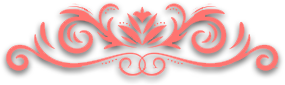
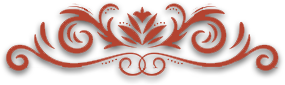
Половина перехода на новую тему

Changed region(s): [[0.0, 0.0235, 0.9825, 0.8941], [0.4491, 0.5412, 0.4772, 0.5647]]

diff --git a/App/static/js/player.js b/App/static/js/player.js
@@ -37,10 +37,27 @@ $('#close1').click(function(){
           		$(".popup").fadeIn(400)
           	}
           	else if (data.status == 'True' && data.task_type == 'FINAL') {
-              $('#popup_text').replaceWith("<p id='popup_text'>Ответ верный! Для продолжения нажмите ОК<br></p>");
           		$('.popup-block').replaceWith("<div class='popup-block'><p id='popup_text'>Ответ верный!<br>Для продолжения нажмите ОК</p><form method='GET' action='task' class='after-timer-form'><button id='close' name='next' value='True' class='button'>Ок</button></form></div> ");
 				      $(".popup").fadeIn(400)
           	}
+            else if (data.status == 'True' && data.task_type == 'PHOTO') {
+              $('.popup-block').replaceWith("<div class='popup-block'><p id='popup_text'>Ответ верный!<br>Для продолжения нажмите ОК</p><form method='GET' action='task' class='after-timer-form'><button id='close' name='submit' value='True' class='button'>Ок</button></form></div> ");
+              $(".popup").fadeIn(400)
+            }
+            else if (data.status == 'False' && data.task_type == 'PHOTO') {
+              $('#popup_text').replaceWith("<p id='popup_text'>Ответ неверный! Попробуйте снова<br></p>");
+              $('.after-timer-form').replaceWith("<button id='close' class='button'>OK<button");
+              $(".popup").fadeIn(400)
+            }
+             else if (data.status == 'True' && data.task_type == 'EXTRA') {
+              $('.popup-block').replaceWith("<div class='popup-block'><p id='popup_text'>Ответ верный!<br>" + data.tooltip + "</p><form method='GET' action='task' class='after-timer-form'><button id='close' name='submit' value='True' class='button'>Ок</button></form></div> ");
+              $(".popup").fadeIn(400)
+            }
+            else if (data.status == 'False' && data.task_type == 'EXTRA') {
+              $('#popup_text').replaceWith("<p id='popup_text'>Ответ неверный! Попробуйте снова<br></p>");
+              $('.after-timer-form').replaceWith("<button id='close' class='button'>OK<button");
+              $(".popup").fadeIn(400)
+            }
           	else {
 				      $('#close').replaceWith("<button id='close' name='answer' class='button'>Ок</button>");
 				      $('#close').attr('value', data);
@@ -74,8 +91,9 @@ var timer = setInterval(function() {
   $('.timer').text(min + ':' + sec);
     if (min == 0 && sec == 0){
       clearInterval(timer);
-		$('#popup_text').replaceWith("К сожалению, время истекло. Переходите к следующему заданию");
-		$(".popup").fadeIn(400);
+    $('#block-timer').replaceWith("<div class='popup-block'><p id='popup_text'>К сожалению, время истекло<br>Для продолжения нажмите ОК</p><form method='GET' action='task' class='after-timer-form'><button id='close' name='next' value='True' class='button'>Ок</button></form></div> ");  
+		$('#popup_next').fadeIn(400);
+		$("#popup-timer").fadeIn(400);
 }
 }, 1000);
 

diff --git a/App/static/player-styles.css b/App/static/player-styles.css
@@ -19,8 +19,23 @@ body{
 	left: 0;
 	height: 100vh;
 	width: 100vw;
-	background-image: url('img/bg.jpg');
+	background-color: #632B21;
 }
+
+.BG {
+  background-image: -moz-linear-gradient( 128deg, rgb(97,43,31) 0%, rgb(97,43,31) 20%, rgb(105,50,38) 20%, rgb(113,57,44) 20%, rgb(113,57,44) 40%, rgb(156,69,52) 40%, rgb(156,69,52) 60%, rgb(229,165,133) 60%, rgb(229,165,133) 80%, rgb(251,218,177) 80%);
+  background-image: -webkit-linear-gradient( 128deg, rgb(97,43,31) 0%, rgb(97,43,31) 20%, rgb(105,50,38) 20%, rgb(113,57,44) 20%, rgb(113,57,44) 40%, rgb(156,69,52) 40%, rgb(156,69,52) 60%, rgb(229,165,133) 60%, rgb(229,165,133) 80%, rgb(251,218,177) 80%);
+  background-image: -ms-linear-gradient( 128deg, rgb(97,43,31) 0%, rgb(97,43,31) 20%, rgb(105,50,38) 20%, rgb(113,57,44) 20%, rgb(113,57,44) 40%, rgb(156,69,52) 40%, rgb(156,69,52) 60%, rgb(229,165,133) 60%, rgb(229,165,133) 80%, rgb(251,218,177) 80%);
+  opacity: 0.949;
+  box-shadow: 0px 3px 0px 250px rgba(0, 0, 0, 0.47),0px 3px 21.56px 0.44px rgba(0, 0, 0, 0.55);
+  position: absolute;
+  left: 1892px;
+  top: 0px;
+  width: 240px;
+  height: 568px;
+  z-index: 522;
+}
+
 
 .main{
 	position: relative;
@@ -32,7 +47,7 @@ body{
 	height: 50px;
 	width: 100vw;
 	z-index: 4;
-	background-color: rgba(255,255,255, 0.7);
+	background-color: rgba(252, 223, 194, 0.9);
 	box-shadow: 0 0 20px rgba(0,0,0,0.75);
 }
 
@@ -50,11 +65,11 @@ body{
 	margin-top: 12px;
 	font-size: 24px;
 	grid-column: 3 / 4;
-	color: #ec7370;
+	color: #612b1f;
 }
 
 .log-out{
-	margin-top: 12px;
+	margin-top: 6px;
 	grid-column-start: 4;
 }
 
@@ -80,14 +95,14 @@ body{
 	box-sizing: border-box;
 	text-align: center;
 	padding: 15px;
+	margin: 15px;
 	grid-row-start: 2;
 	grid-column-start: 1;
 	grid-column-end: 6;
-	background-color: rgba(255,255,255, 0.7);
+	background-image: linear-gradient( 34deg, rgb(97,43,31) 0%, rgb(97,43,31) 20%, rgb(105,50,38) 20%, rgb(113,57,44) 20%, rgb(113,57,44) 40%, rgb(156,69,52) 40%, rgb(156,69,52) 60%, rgb(229,165,133) 60%, rgb(229,165,133) 80%, rgb(251,218,177) 80%);
 	min-height: 650px;
 	height: 100%;
 	box-shadow: 0 0 20px rgba(0,0,0,0.75);
-	margin-bottom: -40px;
 }
 
 .col1{
@@ -281,7 +296,7 @@ span{
 .main-header{
 	font-family: 'Neucha', sans-serif;
 	font-size: 60px;
-	color: #ec7370;
+	color: whitesmoke;
 }
 
 .text{
@@ -292,7 +307,7 @@ span{
 }
 
 span{
-	color: #ec7370;
+	color: whitesmoke;
 }
 
 .footer{
@@ -342,7 +357,10 @@ span{
 	margin: 20px 0;
 }
 
-
+ol {
+	text-align: left;
+    margin-left: 30%;
+}
 .team_inf>div {
 	margin-left: 10px;
 }
@@ -387,6 +405,6 @@ tbody>tr>td:last-child {
 }
 
 thead {
-	background-color: rgba(113,103,100, 0.6);
-	color: #ec7370;
+	background-color: rgba(81,62,50, 0.9);
+	color: whitesmoke;
 }

diff --git a/App/static/login-styles.css b/App/static/login-styles.css
@@ -45,11 +45,13 @@ body {
 }
 
 .login_back{
-	background-color: rgba(255, 255, 255, 0.7);
-  	box-shadow: 0 0 30px rgba(0, 0, 0, 1), 0 0 30px rgba(0, 0, 0, 1);
+    background-image: linear-gradient( 320deg, rgb(97,28,31) 0%, rgb(97,43,31) 20%, rgb(105,50,38) 40%, rgb(113,57,44) 20%, rgb(113,57,44) 40%, rgb(156,69,52) 40%, rgb(156,69,52) 60%, rgb(229,165,131) 78%, rgb(229,165,133) 80%, rgb(251,218,177) 80%);
+    box-shadow: 0 0 30px rgba(0, 0, 0, 1), 0 0 30px rgba(0, 0, 0, 1);
     grid-column: 2 / 4;
     grid-row: 3 / 4;
     z-index: 1;
+    opacity: .9;
+}
 }
 .login >div{
 	color: #441920;
@@ -68,10 +70,10 @@ body {
 }
 #Sign_in{
 	font-size: 20px;
-	color: #ec7370;
+	color: black;
 	width: 100px;
 	border-radius: 3px 3px 3px 3px;
-	background-color: white;
+	background-color: #fad9b0;
 	font-family: "Neucha";
 	margin:auto 45px;
 }
@@ -85,11 +87,15 @@ body {
 }
 
 #Enter{
-	color: #ec7370;
+	color: whitesmoke;
 	font-size: 45px;
 	margin-top: 30px;
 }
 
+form > div {
+	color: whitesmoke;
+	font-size: 20px;
+}
 .title-text{
 	position: absolute;
 	width: 100vw;
@@ -183,12 +189,13 @@ body {
 	cursor: pointer;
 }
 
+
 .menu-hidden{
 	position: fixed;
 	top: 0;
     left: -100%;
 	height: 100vh;
-    background-color: rgba(0, 0, 0, 0.8);
+	background-image: linear-gradient( 140deg, rgb(97,43,31) 0%, rgb(97,43,31) 20%, rgb(105,50,38) 20%, rgb(113,57,44) 20%, rgb(113,57,44) 40%, rgb(156,69,52) 58%, rgb(156,69,52) 60%, rgb(229,165,133) 60%, rgb(229,165,133) 90%, rgb(251,218,177) 80%);
 	font-family: "Neucha";
 	font-size: 20px;
 	text-align: center;

diff --git a/App/templates/App/player/EXTRA/task.html b/App/templates/App/player/EXTRA/task.html
@@ -26,7 +26,7 @@
 		<input type="submit" name="submit" value="Ответить" class="button" style="width: 250px; margin-top: 10px;">
 	</form>
 	<form action="task" method="GET" class="pass">
-		<button type="submit" name="submit" value="True" class="button" style="width: 250px;">Пропустить</button>
+		<button type="submit" name="submit" value="Перейти к следующему этапу" class="button" style="width: 250px;">Пропустить</button>
 	</form>
 	<div class="footer"><p>Легенды Бауманки 2018 <a href="https://www.livy.website"> Веб-студия LivY</a></p></div>
 </div>

diff --git a/App/templates/App/auth/login.html b/App/templates/App/auth/login.html
@@ -23,7 +23,7 @@
 	<div class="menu-grid">
         <div class="menu-bg"></div>
 	    <div class="menu-hidden">
-	        <div class="logo"><img src="{% static 'img/Logo.png' %}"></div>
+	        <div class="logo"><img src="{% static 'img/Logo_auth.png' %}"></div>
 		    <div class="nav nav-itm1"><a href="#">Задание</a></div>
 		    <div class="nav nav-itm2"><a href="#">Страница команды</a></div>
 		    <div class="nav nav-itm3"><a href="#">Правила</a></div>

diff --git a/App/templates/App/player/FINAL/task.html b/App/templates/App/player/FINAL/task.html
@@ -3,8 +3,8 @@
 {% block title %}Задание{% endblock %}
 
 {% block popup %}
-<div class="popup">
-	<div class="popup-block">
+<div id="popup-timer" class="popup">
+	<div id="block-timer" class="popup-block">
 		<p id="popup_text">Ответ<br></p>
 		<form method="GET" action="task" class="after-timer-form">
 			<button id="close" name="next" value="True" class="button">Ок</button>

diff --git a/App/static/menu.css b/App/static/menu.css
@@ -17,7 +17,7 @@ body {
 	font-size: 30px;
 	margin-top: 9px;
 	margin-left: 25px;
-	color: #ec7370;
+	color: #612b1f;
 	position: absolute;
 	z-index: 10;
 	//text-shadow: 0 2px 10px black;

diff --git a/App/views.py b/App/views.py
@@ -241,21 +241,20 @@ def check_answer(request, r, answer):
 				return JsonResponse({'status': 'False', 'task_type': resp['task_type']})
 		if resp['task_type'] == 'EXTRA':
 			if resp['is_correct']:
-				return HttpResponse(resp['tooltip'])
+				return JsonResponse({'status': 'True', 'task_type': resp['task_type'], 'tooltip': resp['tooltip']})
 			else:
-				return HttpResponse('False')
+				return JsonResponse({'status': 'False', 'task_type': resp['task_type']})
 		else:
 			if resp['is_correct']:
-				return HttpResponse('True')
+				return JsonResponse({'status': 'True', 'task_type': resp['task_type']})
 			else:
-				return HttpResponse('False')
-	if r.status_code == 400:
+				return JsonResponse({'status': 'False', 'task_type': resp['task_type']})
+	if r.status_code >= 400:
+		# написать нормальные обработчики ошибок с вставкой сообщений в шаблон
+		# и инструкциями по дальнейшим действиям
 		msg = r.json()
 		msg = msg['message']
 		return HttpResponse(msg)
-	if r.status_code == 500:
-		msg = 'Произошла ошибка на сервере'
-		return HttpRespone(msg) 
 
 def send_answer(request):
 	task_id = cache.get('task_id')
@@ -289,7 +288,7 @@ def task_view(request):
 			duration = cache.get('duration')
 			started = cache.get('started')
 			return render(request, 'App/player/FINAL/next_task.html', {'answer': answer, 'points': points, 'duration': duration, 'started': started })
-		if request.GET.get('submit') == 'Перейти к следующему этапу':
+		if (request.GET.get('submit') == 'Перейти к следующему этапу'):
 			r = get_next_task(request)
 			return check_task(request, r)
 		r = get_current_task(request)
@@ -305,15 +304,21 @@ def about_team(request):
 	return render(request, 'App/admin/about_team.html', r.json())
 
 def team_info(request):
-	teamID = cache.get('teamID')
+	teamID = request.COOKIES.get('team_id')
 	url = 'http://138.68.173.73:8080/player/team/' + str(teamID)
 	headers = {'Content-Type': 'application/json'}
 	r = requests.get(url,headers)
 	resp = r.json()
-	time = resp['start_time']
-	time = datetime.utcfromtimestamp(time).strftime('%Y.%m.%d %H:%M:%S')
-	resp.update({'start_time': time})
-	return render(request, 'App/player/team_page.html', resp)
+	print(resp)
+	try: 
+		time = resp['start_time']
+		time = datetime.utcfromtimestamp(float(time)).strftime('%Y.%m.%d %H:%M:%S')
+		resp.update({'start_time': time})
+		return render(request, 'App/player/team_page.html', resp)
+	except KeyError: 
+		resp.update({'start_time': 'Уточняется'})
+		return render(request, 'App/player/team_page.html', resp)
+	
 
 def team_info_moderator(request):
 	teamID = cache.get('team_id')
